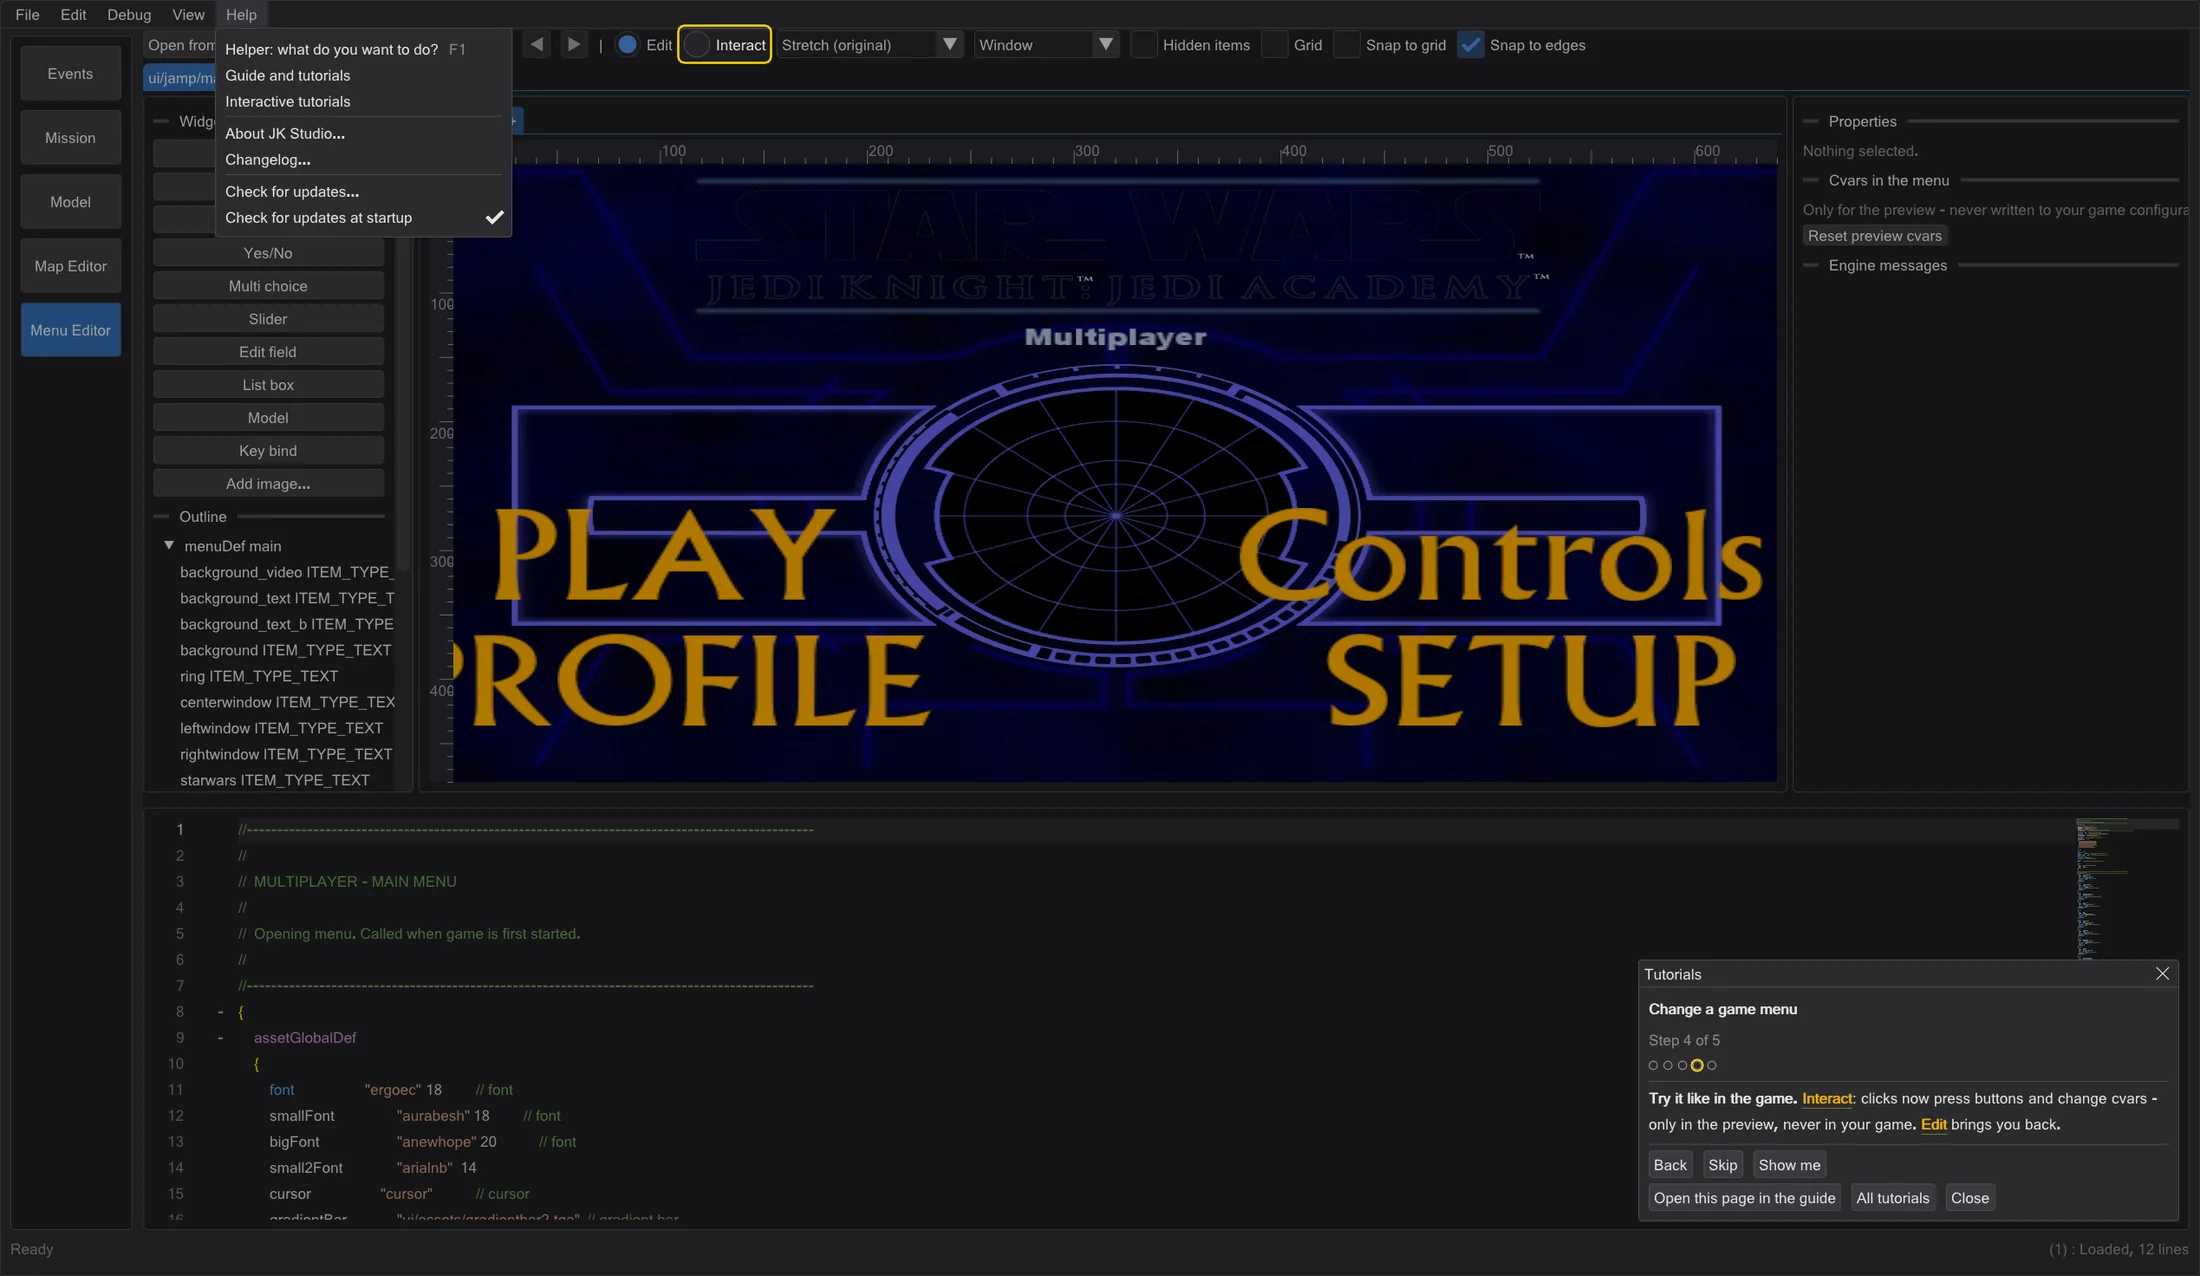
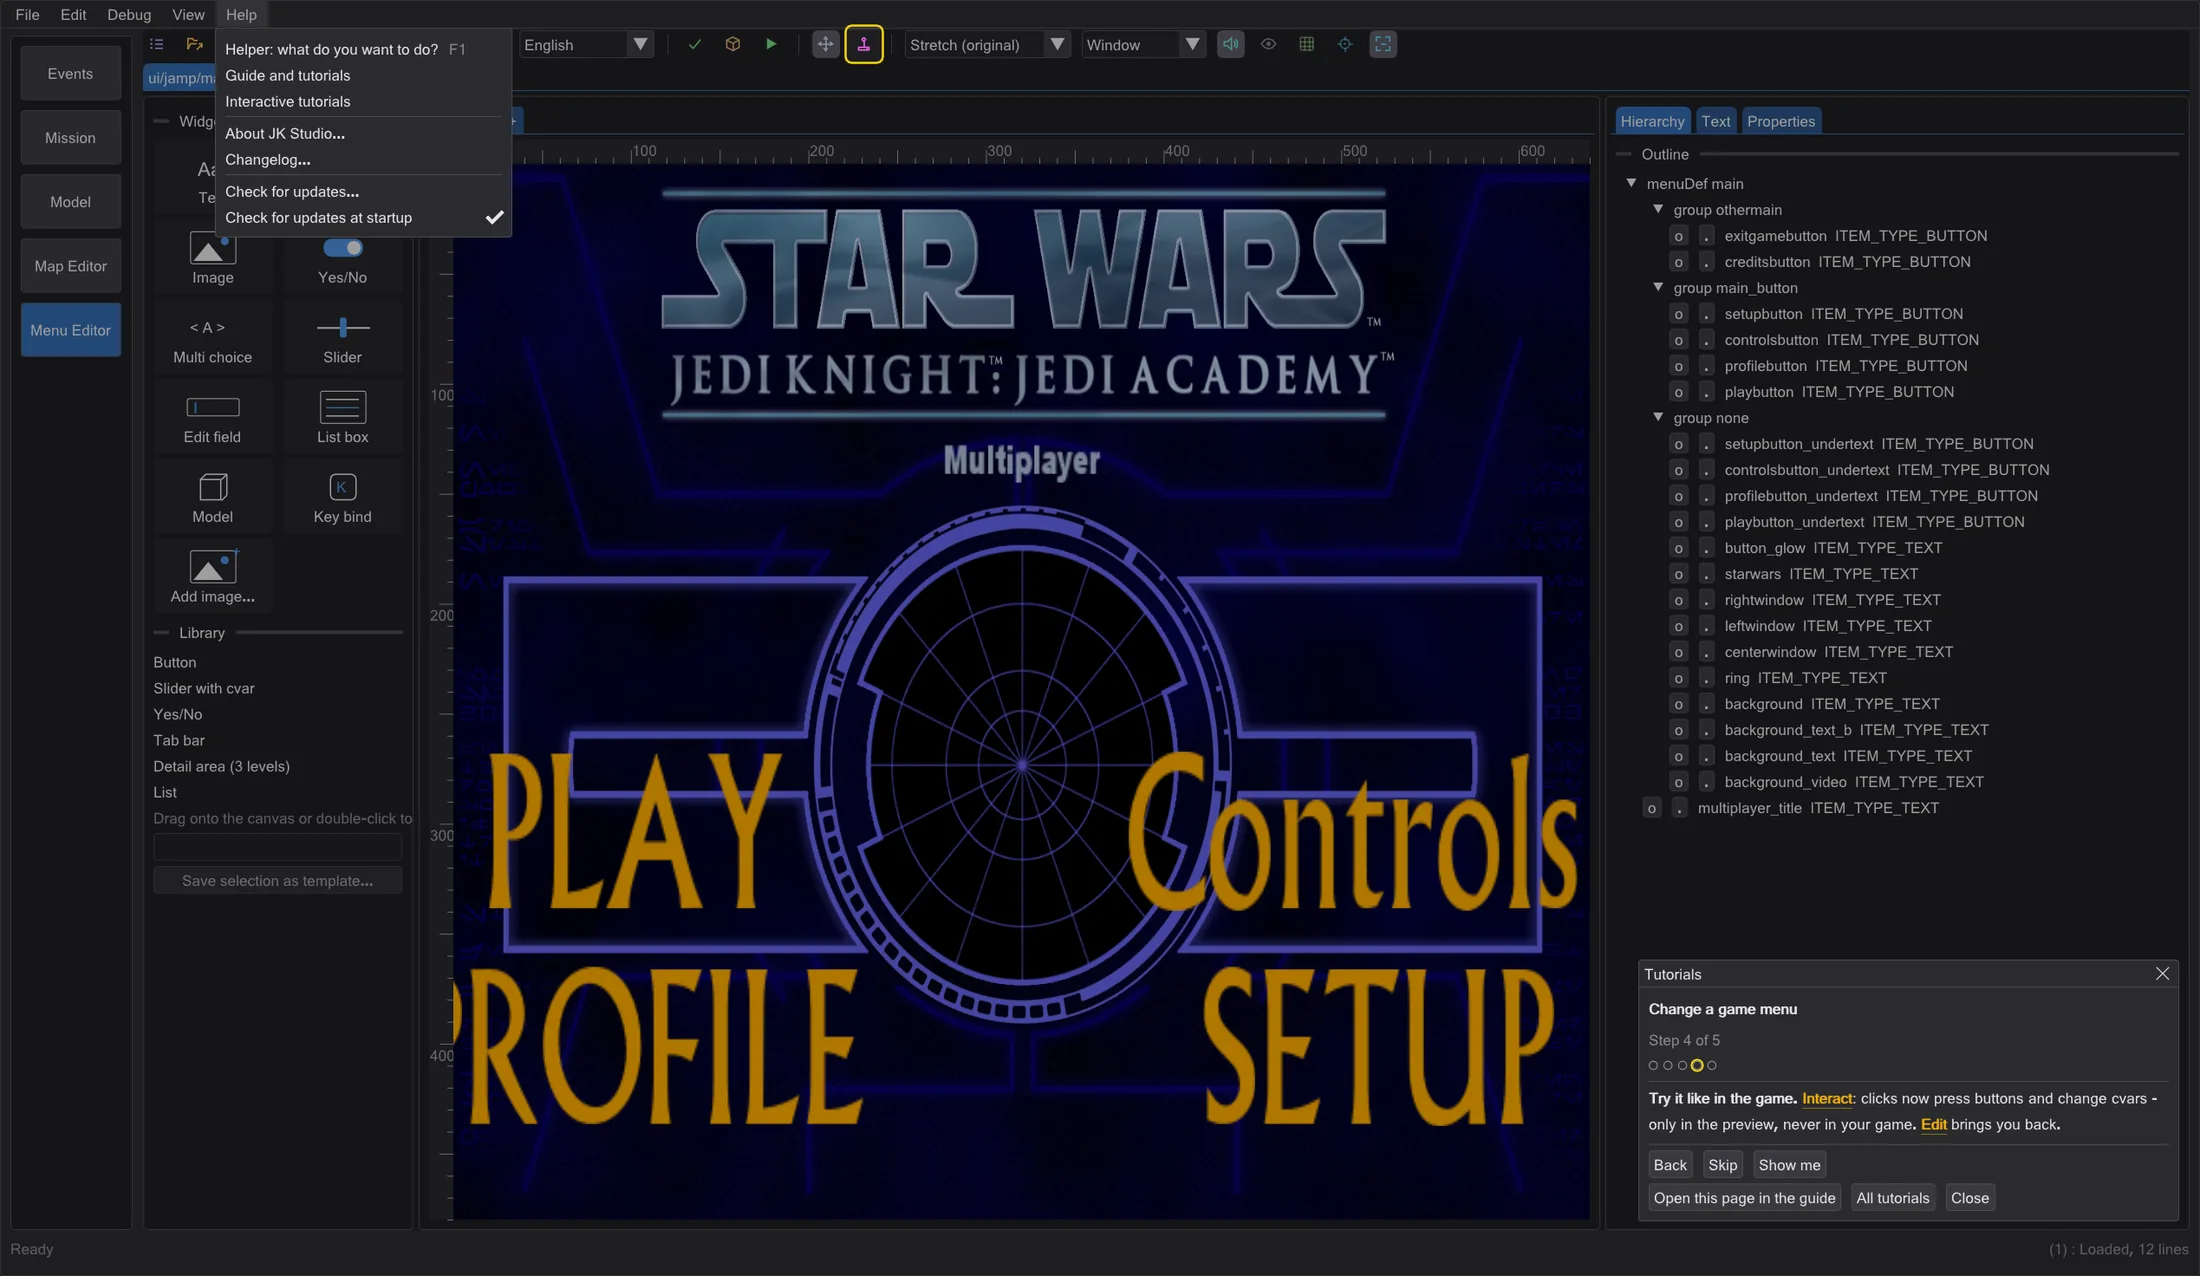
Integration 2: tour image with the M2 toolbar, mission1 test note, notes
- handbuch/bilder/*/h_tour_menue.webp: retaken in four languages
  (BHED_EDITORTEST=handbuch BHED_HB_NUR=hilfe2) - it still showed the
  menu editor toolbar from before M2.
- gui/selbsttest_mission1.inc: the gizmo checks read the photos and
  need BHED_FOTOS (comment).
- docs/intern/NOTIZEN_karte9d.md: section "Integration 2" - merges,
  conflicts, final round and reruns.

diff --git a/docs/intern/NOTIZEN_karte9d.md b/docs/intern/NOTIZEN_karte9d.md
@@ -506,3 +506,91 @@ Nicht gegen das Vorbild geprüft:
 - マップエディター、ビルド:完全な VIS(`-fast` のない `-vis`)の前に、コンソールにポータル数、クラスター数、必要なメモリが表示されます(ポータルファイルから)。最適化のポータルしきい値に達するかメモリが足りなくなると、進行状況ウィンドウにも警告と対策(テストには `-vis -fast`、detail、部分コンパイル:VIS を再利用)が出ます。Open .bsp で開いたマップでは、元のマップが `-vis -fast` でビルドされたかどうかも表示されます。
 - bhed_q3map2 の `-vis` が実際の passage メモリと合計を表示します(NetRadiant-Custom の q3map2 はポータルの半分だけを int で数えていました:md_rev_TarisUpper2 で 9 GB ではなく 268 MB)。
 - 最適化、構造の装飾:リークのないビルドの後は、その .bsp でマップの外側に面していないブラシだけを提案します。外壁の小さな栓はもう detail の候補になりません。
+
+## Integration 2
+
+Zweig `karte1` (Worktree `Y:\karte`), Ausgang 2406e182 (rc606 + H2). Skripte: Schlussrunde `SP/int2/ende.sh`
+(nach `SP/rc606/ende.sh`), Wiederholungen allein und Handbuchbilder `SP/int2/nach.sh`, Selbsttests über
+`SP/int2/idle.sh` (wie `SP/s8d/idle_jk.sh`: ein Prozess zur Zeit, Idle, 8-GB-Wächter; dazu `bhed_q3map2.exe`
+im Laufordner, `BHED_Q3MAP2` und `BHED_HANDBUCH`). Summen `SP/int2/ende_summe.txt`, `SP/int2/nach_summe.txt`.
+
+| Commit | Inhalt |
+|---|---|
+| 14d9bf50 | Merge `karte9d` (744c1e7a) – Konflikte nur in den erzeugten `handbuch/*/suche.js` (gen_handbuch.py); `i18n.h`/`i18n.cpp` mit gen_i18n.py nachgeprüft (gleich), `src/hilfe_orte.inc` aktuell. Bau 0 Warnungen, ctest 158/158 |
+| bd536102 | Merge `mission1` (59acb90c) – `tools/gen_i18n.py` (beide Seiten hängen ein Textmodul an: KARTE9D und MISSION1 behalten); `i18n.*` und `suche.js` neu erzeugt. Bau 0 Warnungen, ctest 158/158 |
+| 39a2c83e | Merge `menue2` (21942f86) – Konflikte unten; `i18n.*`, `src/hilfe_orte.inc` und das Handbuch (153 Seiten, 8 Dateien in Konflikt) neu erzeugt. Bau 0 Warnungen, ctest 164/164 |
+| (dieser) | Handbuchbilder `h_tour_menue` (4 Sprachen) mit der M2-Leiste; Kopf von `selbsttest_mission1.inc`: die Gizmo-Prüfungen brauchen `BHED_FOTOS`; Notizen |
+
+### Konflikte menue2
+
+- **Leiste des Menü-Editors** (`gui/app_menue.cpp`, 5 Stellen): H2 hatte an die alten Textknöpfe Hinweise
+  gehängt (`Me…Hint`: leicht verständlich, zugleich Suchwörter des Helfers, `src/hilfe.cpp` nimmt den
+  Hinweis in den Index), M2 hat die Leiste durch Symbolknöpfe (`iconKnopf`) mit eigenen Hinweisen
+  (`MeTip…`) ersetzt. Behalten: die M2-Leiste; die zehn Knöpfe, zu denen H2 einen Hinweis geschrieben hat
+  (aus dem Spiel, Datei öffnen, Speichern, Export, Bearbeiten, Bedienen, alle Items, Raster, am Raster,
+  an Kanten), zeigen den H2-Text; die zehn gleichbedeutenden `MeTip…` aus `tools/i18n_menue2.py`
+  entfernt (sonst unbenutzt). Die neuen Knöpfe aus M2 behalten ihre `MeTip…`.
+- **`Stand()` / `gui/menueeditor.h`**: die Felder beider Seiten (H2 `exporte`; M2 Bildvergleich,
+  Diagnose, Paket, Klänge …).
+- **`zuEinemSchritt` (H2) und `exportiere()` (M2)**: H2s Funktion (KI-Aufträge als ein
+  Rückgängig-Schritt) bleibt vor M2s gemeinsamer Exportfunktion; H2s Exportzähler steht darin und zählt
+  so beide Exportarten. Die Tour „Ein Menü ändern“ (Schritt 5, Knopf Export) wartet auf diesen Zähler;
+  der Knopf öffnet seit M2 ein Menü mit „Export .pk3“ und „nur Änderungen“ – beides zählt.
+- **`tools/gen_hilfe_orte.py`** (kein Konflikt, aber nötig): der Ortskatalog las im Menü-Editor nur
+  `ImGui::Button/RadioButton/Checkbox` – nach M2 fehlten ihm die Leistenknöpfe (die Tour und der Helfer
+  zeigen auf `knopf:MeAusSpiel` usw.). Jetzt liest er auch `iconKnopf(tr(Str::Me…), UiIcon::…,
+  tr(Str::Hinweis))` (Hinweis aus dem Aufruf wie `leisten()`), die Leiste vor gleichnamigen Knöpfen in
+  Fenstern (Prüfen, Schrift bauen); Knöpfe, die erst mit offenem Menü da sind: dazu Video, Schrift,
+  Texte, Prüfen, im Spiel testen. `src/hilfe_orte.inc`: 179 Orte, 17 Leistenknöpfe des Menü-Editors mit
+  Hinweis (hilfetest grün, Selbsttest hilfe2 mit der Tour tut-menue grün).
+- `tools/gen_i18n.py`: MENUE2 nach KARTE9D und MISSION1.
+- Handbuch: das Bild `h_tour_menue` zeigte die alte Leiste (Optionsknöpfe, Haken) → neu aus dem Selbsttest
+  `BHED_EDITORTEST=handbuch BHED_HB_NUR=hilfe2` in vier Sprachen (`tools/handbuch/bilder.py`);
+  `h_tour_spielordner` und `h_tour_update` kamen bitgleich heraus.
+
+### Schlussrunde (Endstand 39a2c83e)
+
+| Schritt | Ergebnis |
+|---|---|
+| sauberer Neubau (`--clean-first`, /W4 /WX) | **0 Fehler, 0 Warnungen** (938 s) |
+| ctest gesamt | **164/164** (265 s) |
+| lint_sources, lint_fassung | ok |
+| karteneditor voll (mit großer Karte, Fotos) | 3205 OK, 3 FEHLER (1806 s, Spitze 1213 MB) – alle unter Last, allein grün (unten) |
+| menueeditor | **46 OK, 0 FEHLER** |
+| mission1 | 90 OK, 8 FEHLER – die vier Gizmo-Prüfungen je Durchgang lesen die Fotos, `BHED_FOTOS` fehlte im Lauf (alle Werte −1); mit `BHED_FOTOS` **98 OK, 0 FEHLER** |
+| karteneditor + `BHED_KARTE_NUR=hilfe2` | **44 OK, 0 FEHLER** |
+| karteneditor + `BHED_KARTE_NUR=hilfe1` | **59 OK, 0 FEHLER** |
+| karteneditor + `BHED_KARTE_NUR=stufe9d` | **25 OK, 0 FEHLER** |
+| optsicher (md_rev_TarisUpper2, ohne `BHED_OPTSICHER_ALT`) | **14 OK, 0 FEHLER** |
+| Modus 1 | **2645 OK, 0 FEHLER** (648 s; die Zwischenablage-Schritte gingen trotz paralleler Läufe) |
+| kuerzel | **199 OK, 0 FEHLER** |
+| übrige 22 Modi | 0 FEHLER bis auf spulen; dieselben Zahlen wie rc606 (karte 227, kartenfunde 53, fix604b 32, laserfalle 8, geschuetzanim 3, zielstrahl 2, effektgrund 1, figurdeform 1, jk2 15, tuerlauf 13, kamera 95, missionsbau 95, szenen 26, ton 34, npcklasse 12, gluehen 8, gras 13, figurstufen 8, missionsliste 11, rest605 6, modellimfesten 1); spulen 12 OK, 1 FEHLER unter Last, allein grün (unten) |
+| Kartenprüfung (278 MD-Karten, gegen kp606) | alle 17 Summen gleich (0 Abstürze, 0 nicht geladen, 0 GPU-/D3D-/Protokollfehler, 1 → 1 nicht gezeichnete Entity, 2 → 2 NPC ohne Modell, 27/29/139/5 fehlende efx/Klänge/Texturen/Modelle) |
+
+### Wiederholungen allein (dieselbe exe, je ein Prozess)
+
+Während der Schlussrunde bauten und testeten andere Agenten (MSBuild, ein VIS-Lauf, fremde jkstudio);
+die drei Prüfungen zählen Bilder bzw. messen Bildabstände.
+
+| Prüfung | im Gesamtlauf | allein |
+|---|---|---|
+| karteneditor Stufe 3: „Bauen fertig“ (−light ohne .bsp, 1200 Bilder) und die Folgeprüfung „ERROR rot, exit 1“ | ERROR kam, der Prozess war nach 1200 Bildern (7,2 s) noch nicht zu Ende | `BHED_KARTE_NUR=stufe3` **222 OK, 0 FEHLER**, fertig nach 350 Bildern (rc606: 362) |
+| karteneditor Stufe 7: große Karte p99 < 50 ms | Mittel 27,58 ms, p99 66,37 ms | `BHED_KARTE_NUR=stufe7` **76 OK, 0 FEHLER**, Mittel 11,51 ms, p99 20,64 ms (9d: 10,1 / 17,2) |
+| spulen: end_jedi zurück so flüssig wie vor | Einzelbilder 1,3–3,1 s, alle gemessenen Teile zusammen < 1 ms (Ansicht 0,5 ms) | **13 OK, 0 FEHLER**, zurück Mittel 4,7 ms, 95 % 7,4 ms |
+
+Nach den Bildern und dem Kommentar: Bau 0 Warnungen, ctest 164/164.
+
+### Gegen das Vorbild geprüft / nicht geprüft
+
+Die Integration bringt kein neues Verhalten; gegen Spiel und Werkzeug prüfen die Selbsttests der drei
+Zweige (siehe deren Notizen: q3map2/NRC bei 9d, OpenJK/ICARUS bei mission1, Engine-Menüs bei M2), alle
+hier auf dem Endstand grün. Die Kartenprüfung ist gegen kp606 gleich. Nicht geprüft: Tempo auf ruhiger
+Maschine (alle Zeiten unter Last bzw. allein, während andere Agenten liefen).
+
+### Offen
+
+- Die Tour „Ein Menü ändern“ sagt in Schritt 5 „{{MeExportPk3}} schreibt das geänderte Menü in eine .pk3“;
+  seit M2 öffnet der Knopf eine Auswahl (alles / nur Änderungen). Der Satz stimmt weiter, nennt die
+  Auswahl aber nicht – bei Gelegenheit in `inhalt_hilfe2.py`/`inhalt_touren.py` ergänzen (4 Sprachen).
+- Die drei lastempfindlichen Prüfungen (oben) sind unverändert; mit vielen parallelen Bauten können sie
+  im Gesamtlauf rot werden.
